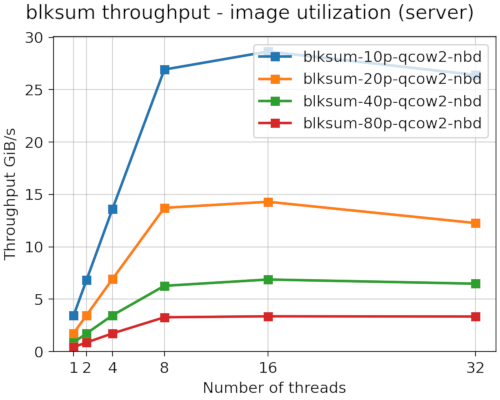
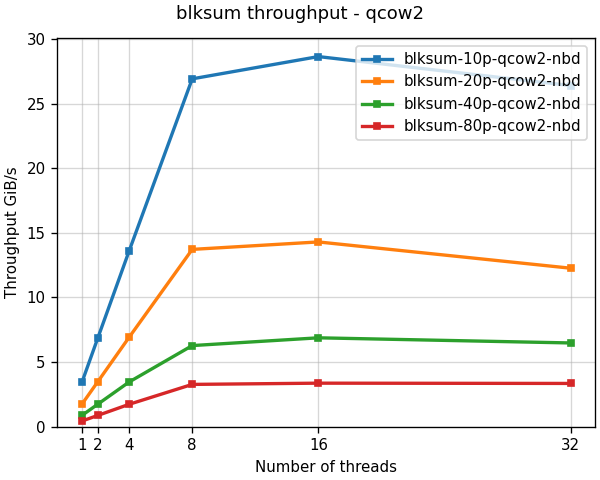
Improve docs/blksum-performance.md
Replace the raw results with graphs from the tests results directory.

Describe the performance using:
- real images of various utilizations
- image full of non zero data
- image full of zeros
- empty image

Link to blksum performance page directly from README.md and improve the
formatting of the links sections.

The test/web.mplstyle was optimized for smaller images for web use. We
may need another style to presentations.

Fixes #94

diff --git a/docs/blksum-performance.md b/docs/blksum-performance.md
@@ -5,147 +5,121 @@ SPDX-License-Identifier: LGPL-2.1-or-later
 
 # blksum performance
 
-blksum is 3-360 times faster than sha256sum, depending on the contents
-of the image.
+`blksum` can be up to 4 orders of magnitude faster than sha256sum,
+depending on the contents of the image, image format, and the way we
+read the image.
 
-## 25% full sparse image
+## Real images
 
-For typical 25% full sparse image, `blksum` is 15 times faster compared
-with standard tools, using 3.7 times less cpu time:
+The most important factor is how much non-zero data is in the image. For
+images full of data, we are limited by storage throughput. For very
+sparse images we get dramatic improvement.
 
-```
-$ hyperfine -w1 -p "sleep 2" "blksum 25p.raw" "sha256sum 25p.raw"
-Benchmark 1: blksum 25p.raw
-  Time (mean ± σ):     877.0 ms ±  33.3 ms    [User: 3380.8 ms, System: 606.0 ms]
-  Range (min … max):   803.5 ms … 914.8 ms    10 runs
+The following graphs compare the throughput using 4 images:
 
-Benchmark 2: sha256sum 25p.raw
-  Time (mean ± σ):     13.275 s ±  0.438 s    [User: 12.570 s, System: 0.672 s]
-  Range (min … max):   12.828 s … 14.027 s    10 runs
+- 10p - 10% full image
+- 20p - 20% full image
+- 40p - 40% full image
+- 80p - 80% full image
 
-Summary
-  'blksum 25p.raw' ran
-   15.14 ± 0.76 times faster than 'sha256sum 25p.raw'
-```
+![qcow2 format](../media/blksum-qcow2.png)
+![raw format](../media/blksum-raw.png)
 
-## 50% full image
+## Image full of data
 
-For images with more data the speedup is smaller, and more cpu time is
-used:
+The worst case for `blksum` is an image full of non-zero data. In this
+case, `blksum` must read the entire image from storage which limit the
+throughput.
 
-```
-$ hyperfine -w1 -p "sleep 2" "blksum 50p.raw" "sha256sum 50p.raw"
-Benchmark 1: blksum 50p.raw
-  Time (mean ± σ):      1.951 s ±  0.151 s    [User: 7.522 s, System: 1.263 s]
-  Range (min … max):    1.733 s …  2.200 s    10 runs
+Reading from storage is faster when we access the image directly, but
+this works only for raw images, and image allocation is not supported in
+this case.
 
-Benchmark 2: sha256sum 50p.raw
-  Time (mean ± σ):     13.716 s ±  0.428 s    [User: 13.026 s, System: 0.660 s]
-  Range (min … max):   12.903 s … 14.200 s    10 runs
+The following graph compares hashing of 100% full qcow2 and raw images,
+read via NBD, file, and pipe:
 
-Summary
-  'blksum 50p.raw' ran
-    7.03 ± 0.59 times faster than 'sha256sum 50p.raw'
-```
+- qcow2-nbd: qcow2 image read via NBD
+- raw-nbd: raw image read via NBD
+- raw-file: raw image read directly from file
+- raw-pipe: raw image read from pipe
 
-## 75% full image
+![blksum data](../media/blksum-data.png)
 
-When the image is 75% full `blkusum` is 4.5 time faster:
+## Image full of zeros
 
-```
-$ hyperfine -w1 -p "sleep 2" "blksum 75p.raw" "sha256sum 75p.raw"
-Benchmark 1: blksum 75p.raw
-  Time (mean ± σ):      3.019 s ±  0.233 s    [User: 12.063 s, System: 1.915 s]
-  Range (min … max):    2.725 s …  3.518 s    10 runs
+In this case `blksum` must read the entire image from storage, but hashing
+the image is practically free. The number of threads do not matter since
+we are waiting for storage.
 
-Benchmark 2: sha256sum 75p.raw
-  Time (mean ± σ):     13.622 s ±  0.541 s    [User: 12.850 s, System: 0.737 s]
-  Range (min … max):   13.028 s … 14.579 s    10 runs
+Reading from storage is faster when reading the image directly from file
+or from pipe, compared with reading the image via NBD.
 
-Summary
-  'blksum 75p.raw' ran
-    4.51 ± 0.39 times faster than 'sha256sum 75p.raw'
-```
+The following graph compares hashing of qcow2 and raw images full with
+zeros, read via NBD, file, and pipe:
 
-## Reading image from a pipe
+- qcow2-nbd: qcow2 image read via NBD
+- raw-nbd: raw image read via NBD
+- raw-file: raw image read directly from file
+- raw-pipe: raw image read from pipe
 
-When reading from a pipe we can use only raw image data and cannot
-detect image sparseness, but zero detection and multiple threads are
-effective:
-
-```
-$ hyperfine -w1 -p "sleep 2" "blksum <50p.raw" "sha256sum <50p.raw"
-Benchmark 1: blksum <50p.raw
-  Time (mean ± σ):      1.895 s ±  0.048 s    [User: 6.426 s, System: 0.622 s]
-  Range (min … max):    1.825 s …  1.986 s    10 runs
-
-Benchmark 2: sha256sum <50p.raw
-  Time (mean ± σ):     13.039 s ±  0.536 s    [User: 12.369 s, System: 0.642 s]
-  Range (min … max):   12.317 s … 14.103 s    10 runs
-
-Summary
-  'blksum <50p.raw' ran
-    6.88 ± 0.33 times faster than 'sha256sum <50p.raw'
-```
+![blksum zero](../media/blksum-zero.png)
 
 ## Empty image
 
-The best case is a completely empty image. `blksum` detects that the
-entire image is unallocated without reading any data from storage and
-optimize zero hashing:
+When reading empty image via NBD, `blksum` does not read anything from
+storage, and can hash the data up to 4 orders of magnitude faster than
+sha256sum.
+
+When reading the image directly from file or via a pipe, blksum must
+read the entire image. The results are similar to hashing an image full
+of zeros.
+
+The following graph compares hashing of qcow2 and raw empty images read
+via NBD, file, and pipe:
+
+- qcow2-nbd: qcow2 image read via NBD
+- raw-nbd: raw image read via NBD
+- raw-file: raw image read directly from file
+- raw-pipe: raw image read from pipe
+
+![blksum hole](../media/blksum-hole.png)
+
+## Tested hardware
+
+The benchmarks shown here ran on *Dell PowerEdge R640* with this
+configuration:
+
+- kernel: Linux-4.18.0-425.13.1.el8_7.x86_64-x86_64-with-glibc2.28
+- online cpus:  40
+- smt: off
+- cpu: Intel(R) Xeon(R) Gold 5218R CPU @ 2.10GHz
+- tuned-profile: latency-performance
+
+## How we test
+
+`blksum` performances is tested by running the `blksum` with real images
+on local storage with various number of threads. This measures real
+world performance of the command, which is typically limited by storage
+throughput.
+
+The real images for the benchmark are created using the
+[make-images.py](../test/make-images.py) tool. This tool requires the
+`virt-builder` command and works only on Linux.
+
+The results were collected by multiple runs of `hyperfine` tool for
+every image:
 
 ```
-$ hyperfine -w1 -p "sleep 2" "blksum empty-6g.raw" "sha256sum empty-6g.raw"
-Benchmark 1: blksum empty-6g.raw
-  Time (mean ± σ):      37.1 ms ±   6.8 ms    [User: 11.3 ms, System: 5.1 ms]
-  Range (min … max):    27.1 ms …  44.1 ms    10 runs
-
-Benchmark 2: sha256sum empty-6g.raw
-  Time (mean ± σ):     13.522 s ±  0.557 s    [User: 12.795 s, System: 0.692 s]
-  Range (min … max):   12.545 s … 14.190 s    10 runs
-
-Summary
-  'blksum empty-6g.raw' ran
-  364.58 ± 68.72 times faster than 'sha256sum empty-6g.raw'
+hyperfine -L t 1,2,4,8,16,32 \
+  "build/bin/blksum -t {t} -c ../blksum/{10,20,40,80}p.{raw,qcow2}" \
+  --export-json test/results/2023-06/server/blksum-{10,20,40,80}p-{raw,qcow2}-nbd.json
 ```
 
-## Image full of zeroes
+The graphs were created from the test results json files using the
+[plot-blksum.py](../test/plot-blksum.py) tool.
 
-A less optimal case is a fully allocated image full of zeros. `blksum`
-must read the entire image, but it detects that all blocks are zeros
-and optimize zero hashing:
+See [blkhash performance](blkhash-performance.md) to learn about the
+maximum throughput possible using the `blkhash` library.
 
-```
-$ hyperfine -w1 -p "sleep 2" "blksum zero-6g.raw" "sha256sum zero-6g.raw"
-Benchmark 1: blksum zero-6g.raw
-  Time (mean ± σ):      2.041 s ±  0.011 s    [User: 0.446 s, System: 1.786 s]
-  Range (min … max):    2.026 s …  2.065 s    10 runs
-
-Benchmark 2: sha256sum zero-6g.raw
-  Time (mean ± σ):     13.683 s ±  0.537 s    [User: 12.854 s, System: 0.790 s]
-  Range (min … max):   13.024 s … 14.661 s    10 runs
-
-Summary
-  'blksum zero-6g.raw' ran
-    6.70 ± 0.27 times faster than 'sha256sum zero-6g.raw'
-```
-
-## 100% full image
-
-The worst case is a completely full image, when nothing can be
-optimized, but using multi-threading helps:
-
-```
-$ hyperfine -w1 -p "sleep 2" "blksum full-6g.raw" "sha256sum full-6g.raw"
-Benchmark 1: blksum full-6g.raw
-  Time (mean ± σ):      4.227 s ±  0.252 s    [User: 17.021 s, System: 2.683 s]
-  Range (min … max):    3.777 s …  4.493 s    10 runs
-
-Benchmark 2: sha256sum full-6g.raw
-  Time (mean ± σ):     13.386 s ±  0.453 s    [User: 12.689 s, System: 0.655 s]
-  Range (min … max):   13.006 s … 14.104 s    10 runs
-
-Summary
-  'blksum full-6g.raw' ran
-    3.17 ± 0.22 times faster than 'sha256sum full-6g.raw'
-```
+See the [test/results](../test/results) directory for test results and
+images.

diff --git a/README.md b/README.md
@@ -46,7 +46,10 @@ Here is a graph comparing `blksum` and `sha256sum` throughput in GiB/s:
 
 ![blksum performance](media/blksum-qcow2.png)
 
-See [blksum](docs/blksum.md) for more info.
+- See [blksum](docs/blksum.md) to learn more about the `blksum`
+  command and how to use it.
+- See [blksum performance](docs/blksum-performance.md) to learn more
+  about `blksum` performance.
 
 ## The blkhash library
 
